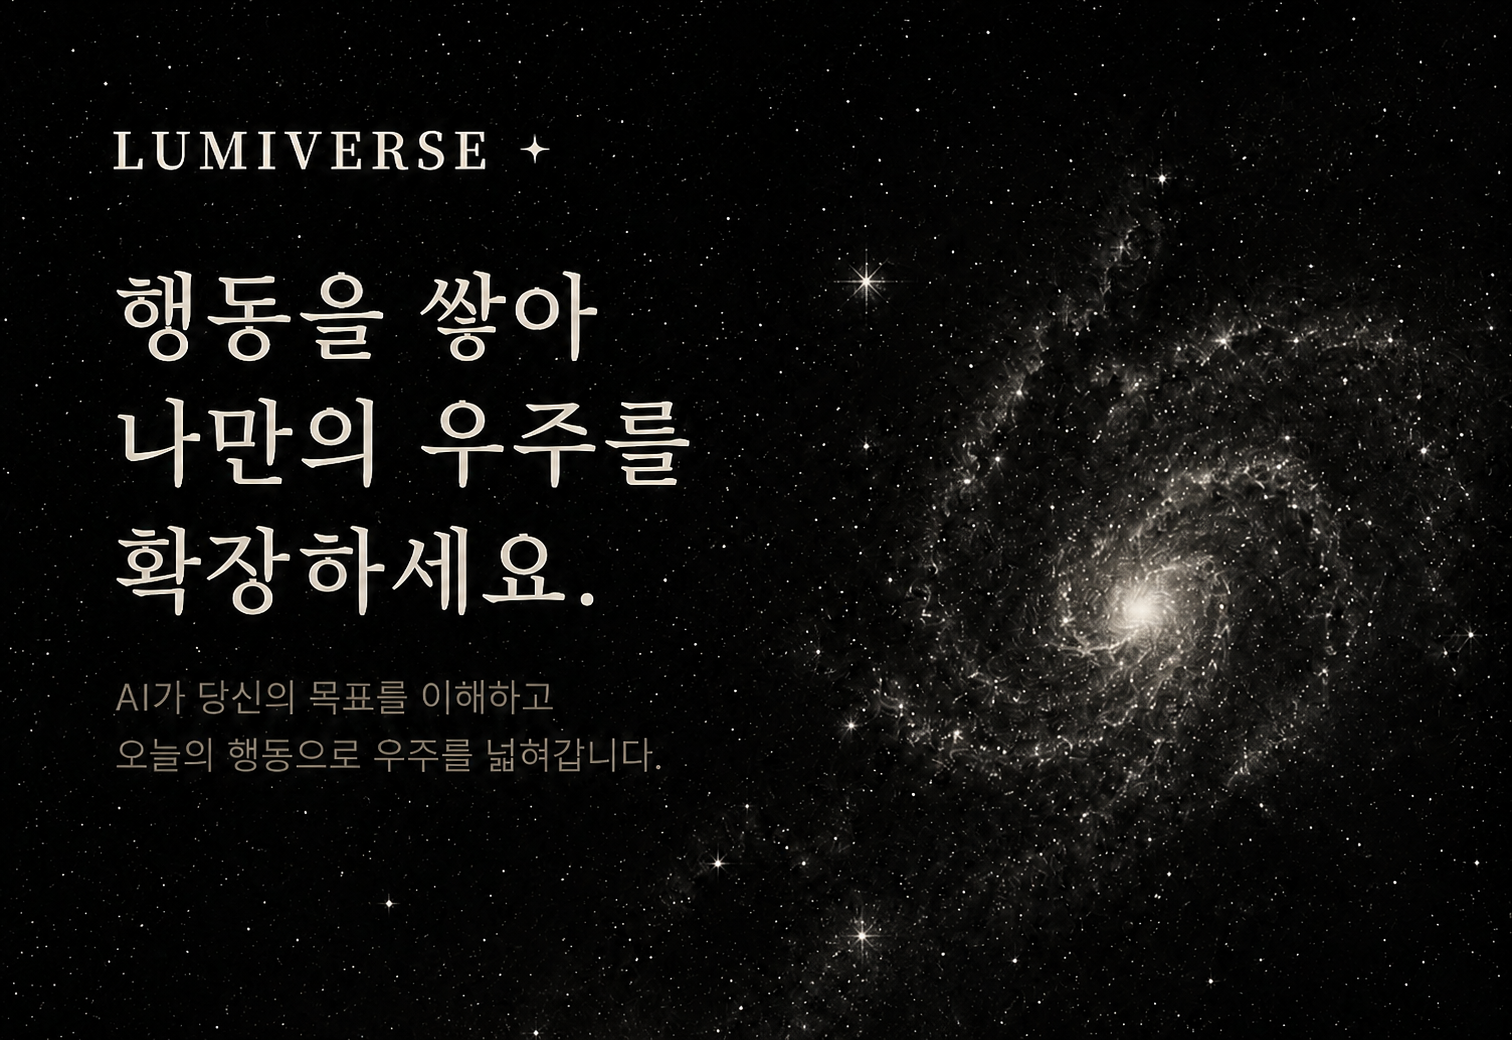
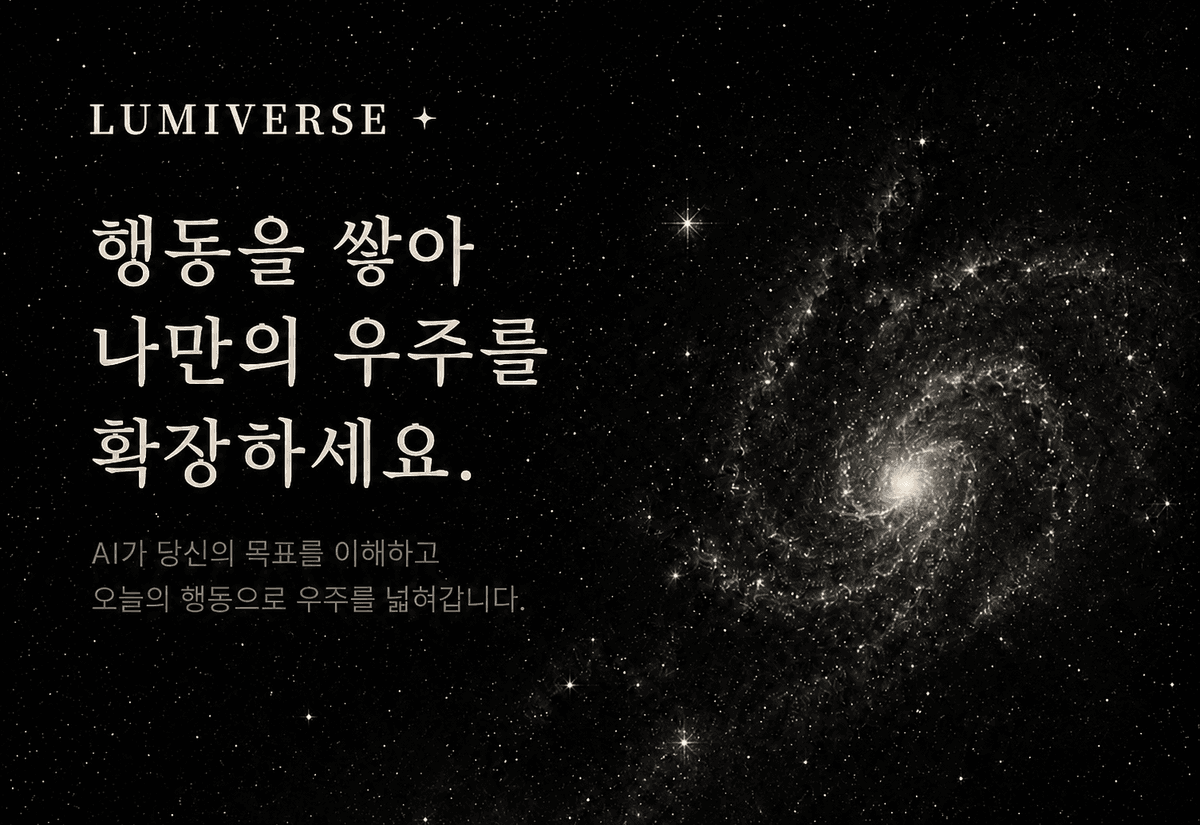
perf(seo): compress og_image 2MB -> 195KB (1200x825)
sharp 리사이즈+팔레트, og:image 치수 메타도 갱신.

diff --git a/index.html b/index.html
@@ -13,8 +13,8 @@
     <meta property="og:description" content="작은 행동들의 여정을 따라 점점 더 또렷해지는 나만의 우주 — Lumiverse" />
     <meta property="og:type" content="website" />
     <meta property="og:image" content="https://inorrni.github.io/lumiverse/og_image.png" />
-    <meta property="og:image:width" content="1512" />
-    <meta property="og:image:height" content="1040" />
+    <meta property="og:image:width" content="1200" />
+    <meta property="og:image:height" content="825" />
     <meta property="og:site_name" content="Lumiverse" />
     <meta property="og:locale" content="ko_KR" />
 